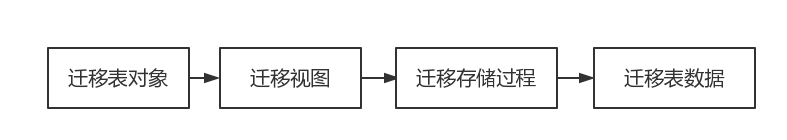
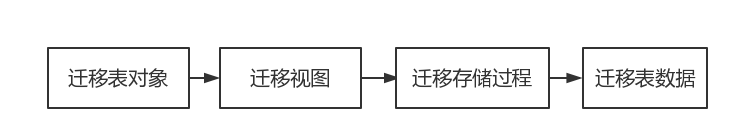
添加说明文档

Changed region(s): [[0.0622, 0.3143, 0.9648, 0.8], [0.4357, 0.7429, 0.5602, 0.8], [0.4357, 0.3143, 0.5602, 0.3714]]

diff --git a/README.md b/README.md
@@ -1,0 +1,48 @@
+## Sybase 数据库迁移
+
+本项目基于Java语言实现了一个Sybase数据库迁移解决方案，并提供了跨版本迁移特性（已验证的版本是Sybase IQ 12.5 -> Sybase IQ 15.4）。
+
+完整的数据库迁移步骤如下图：
+![迁移步骤](https://raw.githubusercontent.com/olh2012/SybaseTransfer/master/doc/image/%E8%BF%81%E7%A7%BB%E6%AD%A5%E9%AA%A4.png "Sybase迁移步骤")
+
+这些步骤之间是顺序执行的，但是在某个具体步骤里面，比如表数据迁移，数据库中可能存在很多个表，则可以并发执行的方式以提高效率。
+
+同时，程序还提供了一些额外的操作支持，比如数据库对象初始化（会统计源库的对象数目并在目标库创建统计表），数据库对象清理（一般用于重复调度），数据库对象统计及迁移过程记录等。
+
+在代码实现上，抽象了以下三种概念模型：
+
+* <strong>迁移对象</strong> 迁移对象与数据库对象对应，在本项目中迁移任务具体就是指`表`、`视图`和`存储过程`。
+* <strong>过滤器</strong> 过滤器实现对目标迁移对象的一种筛选，比如要迁移指定用户模式的对象，就可以使用模式过滤器。目前程序中已经实现的过滤器有：`排除过滤器`、`名称列表过滤器`、`名称过滤器`、`OGNL表达式过滤器`、`正则表达式过滤器`、`名称前缀过滤器`、`用户模式过滤器`、`对象类型过滤器`、`排除用户模式过滤`。具体说明可直接参看代码，这里不作过多解释。
+* <strong>迁移任务</strong> 迁移任务代表着在具体迁移过程中的一种操作，多种迁移任务可以形成一个任务组。目前代码中定义的任务类型有：`清除对象任务`、`初始化统计任务`、`对象迁移任务`、`数据迁移任务`。
+
+程序的入口是 `src/com/forms/task/core/TaskExecute.java` 类中的 `main` 方法。支持的参数选项如下：
+
+|短选项|长选项|包含参数|描述|
+|---|---|---|---|
+|h|help|否|打印帮助信息|
+|tn|threadNumber|是|提交多个任务时，并发执行的线程数，小于或等于1时表示串行执行|
+|cf|configFile|是|Spring配置文件，不能有空格|
+
+在程序执行时，先要注册任务，这里提供了两种方式，一是通过XML配置实现，即通过`-cf 任务配置文件` 来实现（文件样例参考`resources/spring/spring-task.xml` ），二是通过命令行参数实现。
+
+命令行中用于实现任务调度的额外参数选项如下：
+
+|短选项|长选项|包含参数|描述|
+|---|---|---|---|
+|c|clear|否|执行清除对象任务|
+|o|object|否|执行迁移对象任务|
+|d|data|否|执行迁移数据任务|
+|u|user|是|用户名称|
+|n|name|是|单个对象名称|
+|p|prefix|是|根据对象前缀过滤迁移对象|
+|in|including|是|根据对象名称满足的正则表达式过滤迁移对象|
+|ex|excluding|是|根据对象名称不满足的正则表达式过滤迁移对象|
+|i|ignoreCase|是|名称比较时是否忽略大小写|
+
+在实际执行时，一般是打包jar包用后台进程的的方式执行，以下为Linux环境下执行语句的参考：
+
+```shell
+nohup java -jar SybaseTransfer.jar -tn 10 -cf spring-task.xml >/dev/null 2>&1 &
+```
+
+建议或反馈： franka907@126.com
